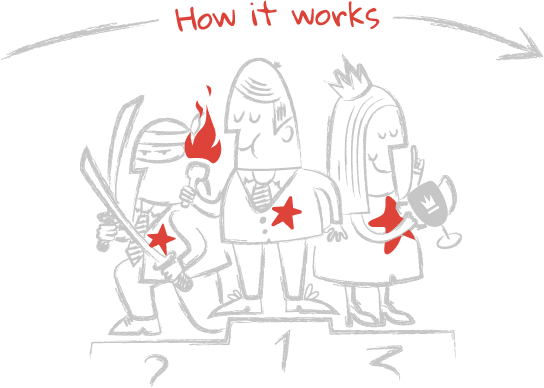
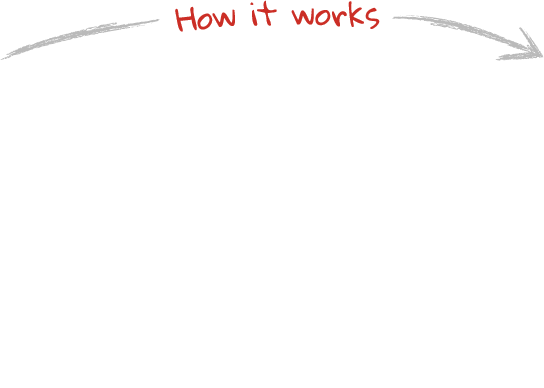
Video + Year

Changed region(s): [[0.125, 0.1237, 0.8438, 0.9897], [0.1875, 0.6804, 0.2188, 0.7423]]

diff --git a/index.html b/index.html
@@ -153,26 +153,7 @@
     <div class="content">
         <div id="howorks" class="howWorks">
             <div class="lCol">
-                <p>Endorphin builds up a social graph of your 1st and 2nd degree connections from:</p>
-                <div class="iconSet">
-                    <div class="row">
-                        <span class="icon icon-linkdin-v2"><i></i>&nbsp;</span>
-                        <span class="icon icon-fb-v2"><i></i>&nbsp;</span>
-                    </div>
-                    <div class="row">
-                        <span class="icon icon-twittr-v2"><i></i>&nbsp;</span>
-                        <span class="icon icon-unknown-v2"><i></i>&nbsp;</span>
-                    </div>
-                </div>
-            </div>
-            <div class="rCol">Processing digital footprints
-            of your connections from
-            all over around through
-            our scoring platform Endorphin forms ratings measuring
-            career success, influence
-            on environment, common views and strength of connection
-            in relation to you</div>
-            <div class="clearfix"></div>
+            <iframe width="640" height="360"src="https://www.youtube.com/embed/tIKB2Juwhh4" frameborder="0" allowfullscreen></iframe>
         </div>
     </div>
     <div class="push"></div>
@@ -184,7 +165,7 @@
         </div>
         <div class="slogan">Endorphin &mdash; making sense of social data</div>
         <div class="copy">
-            <span class="icon icon-copy"><i></i>Endorphin &copy; 2012</span>
+            <span class="icon icon-copy"><i></i>Endorphin &copy; 2013</span>
         </div>
     </div>
 </footer>
